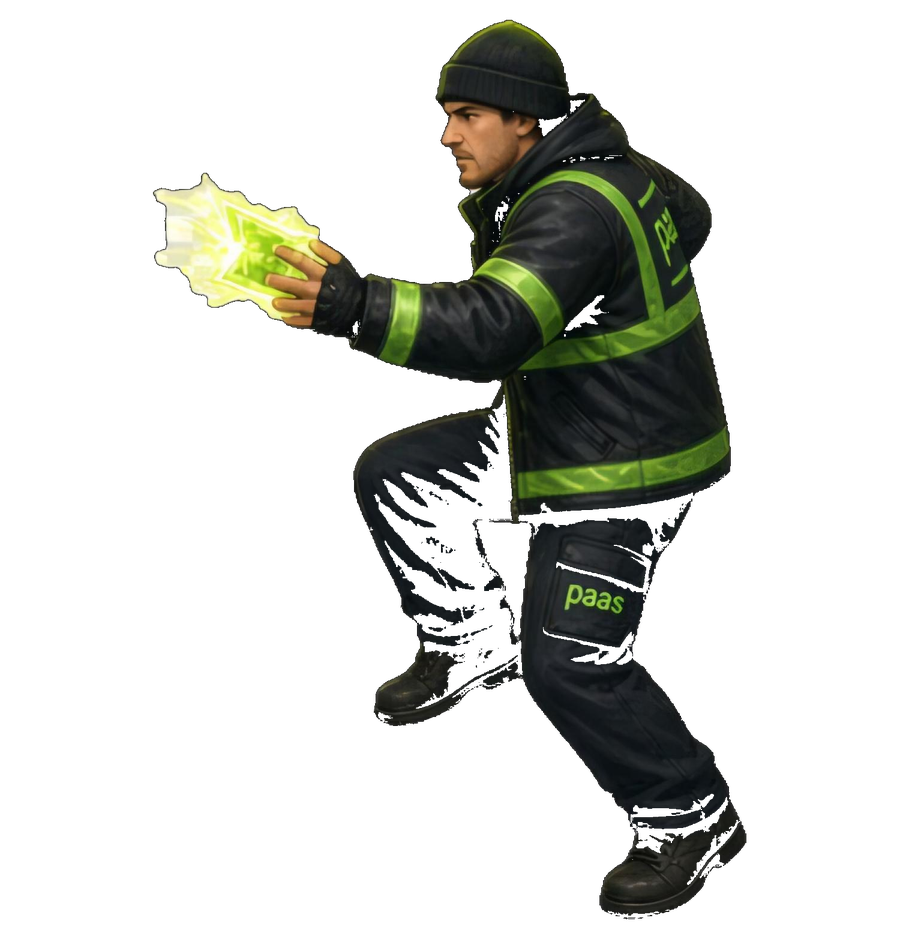
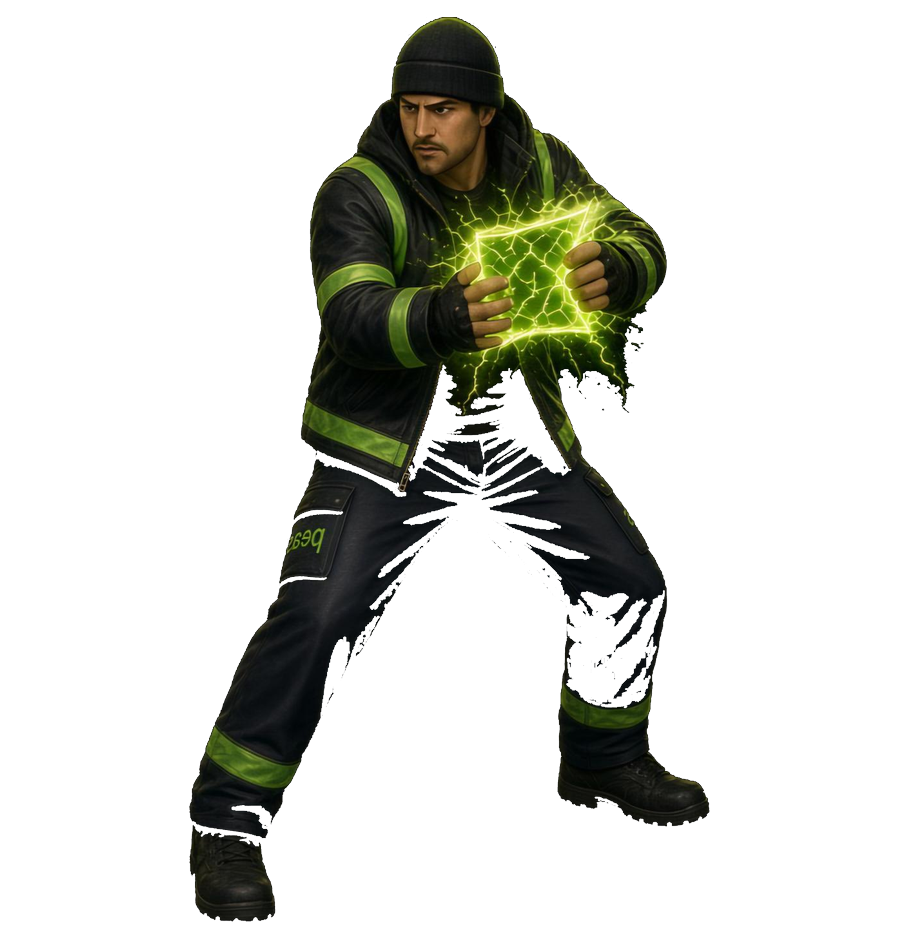
Update the matching parking-god throw, charge and win poses.

Changed region(s): [[0.1556, 0.0, 0.84, 0.9915]]

diff --git a/src/components/slot/SlotGame.tsx b/src/components/slot/SlotGame.tsx
@@ -56,8 +56,8 @@ function HandBolt({ strike }: { strike: { r: number; c: number } | null }) {
     const drawnH = 936 * scale;
     const ox = (pr.width - drawnW) / 2;
     const oy = pr.height - drawnH;
-    const hx = pr.left + ox + (1 - 0.849) * drawnW;
-    const hy = pr.top + oy + 0.322 * drawnH;
+    const hx = pr.left + ox + (1 - 0.631) * drawnW;
+    const hy = pr.top + oy + 0.247 * drawnH;
     setShot({
       w: sr.width,
       h: sr.height,
@@ -421,17 +421,17 @@ export function SlotGame() {
               className={`park-pose is-flip ${god === "run" ? "on" : ""}`}
             />
             <img
-              src="/art/paas-anti.png?v=3"
+              src="/art/paas-anti.png?v=4"
               alt=""
               className={`park-pose ${god === "anti" ? "on" : ""}`}
             />
             <img
-              src="/art/paas-bolt.png?v=3"
+              src="/art/paas-bolt.png?v=4"
               alt=""
               className={`park-pose is-flip ${god === "bolt" ? "on" : ""}`}
             />
             <img
-              src="/art/paas-win.png?v=3"
+              src="/art/paas-win.png?v=4"
               alt=""
               className={`park-pose ${god === "win" ? "on" : ""}`}
             />

diff --git a/src/lib/slot/symbols.ts b/src/lib/slot/symbols.ts
@@ -145,9 +145,9 @@ export const ALL_ART: readonly string[] = [
   "/symbols/can.png",
   "/art/paas-idle.png?v=3",
   "/art/paas-run.png?v=3",
-  "/art/paas-anti.png?v=3",
-  "/art/paas-bolt.png?v=3",
-  "/art/paas-win.png?v=3",
+  "/art/paas-anti.png?v=4",
+  "/art/paas-bolt.png?v=4",
+  "/art/paas-win.png?v=4",
   "/art/parking-bg.jpg",
 ];
 
